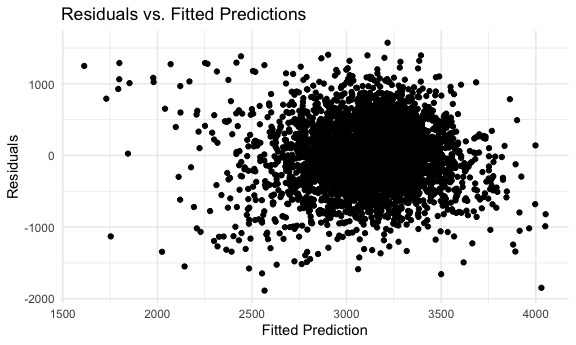
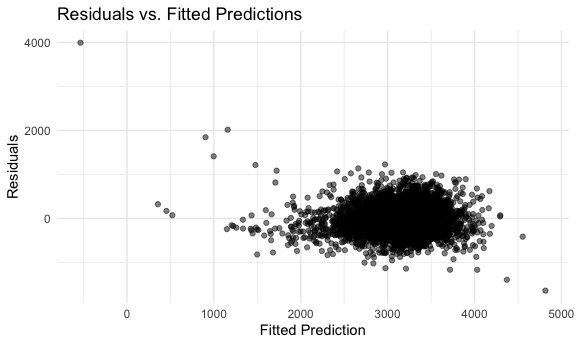
Problem 2 - RMSE, Comparing model fits

diff --git a/p8105_hw6_als2377.md b/p8105_hw6_als2377.md
@@ -134,7 +134,7 @@ summarize(baby_df, count = sum(is.na(baby_df)))
 Propose a regression model for birthweight.
 
 ``` r
-model_fit = lm(bwt ~ gaweeks + delwt + fincome + smoken, data = baby_df) 
+model_fit = lm(bwt ~ gaweeks +  blength + delwt + smoken, data = baby_df) 
 
 model_fit %>% 
   broom::tidy() %>% 
@@ -143,18 +143,18 @@ model_fit %>%
   knitr::kable(digits = 3)
 ```
 
-| term      |  estimate | p.value |
-| :-------- | --------: | ------: |
-| intercept | \-161.294 |   0.076 |
-| gaweeks   |    60.680 |   0.000 |
-| delwt     |     5.599 |   0.000 |
-| fincome   |     2.263 |   0.000 |
-| smoken    |   \-7.599 |   0.000 |
+| term      |   estimate | p.value |
+| :-------- | ---------: | ------: |
+| intercept | \-4444.687 |       0 |
+| gaweeks   |     26.605 |       0 |
+| blength   |    123.029 |       0 |
+| delwt     |      2.762 |       0 |
+| smoken    |    \-3.073 |       0 |
 
 Based on hypothesized variables that influenced babyweight, I included
 the following variables in a linear regression model: mother’s weight at
-delivery (delwt), gestational age in weeks (gaweeks), family monthly
-income (fincome), and average number cigarettes smoked per day during
+delivery (delwt), gestational age in weeks (gaweeks), baby’s length at
+birth (blength), and average number cigarettes smoked per day during
 pregnancy (smoken). The following plot shows the residuals of the model
 plotted against the fitted values.
 
@@ -162,9 +162,9 @@ plotted against the fitted values.
 baby_df %>% 
   add_residuals(model_fit) %>% 
   add_predictions(model_fit) %>% 
-  select(resid, pred, delwt, gaweeks, fincome, smoken) %>% 
+  select(resid, pred, delwt, gaweeks, smoken, blength) %>% 
   ggplot(aes(x = pred, y = resid)) + 
-  geom_point() + 
+  geom_point(alpha = 0.5) + 
   labs(
     title = "Residuals vs. Fitted Predictions", 
     x = "Fitted Prediction", 
@@ -173,3 +173,69 @@ baby_df %>%
 ```
 
 <img src="p8105_hw6_als2377_files/figure-gfm/unnamed-chunk-7-1.png" width="90%" />
+
+Compare the model to two others in terms of cross-validation prediction
+error.
+
+``` r
+fit1 = model_fit 
+  
+fit2 = lm(bwt ~ gaweeks + blength, data = baby_df) 
+
+fit3 = lm(bwt ~ bhead + blength + babysex + bhead * blength + bhead * babysex + blength * babysex, data = baby_df)
+
+baby_df %>% 
+  gather_predictions(fit1, fit2, fit3) %>% 
+  mutate(model = fct_inorder(model)) %>% 
+  ggplot(aes(x = blength, y = bwt)) + 
+  geom_point(alpha = .5) +
+  geom_line(aes(y = pred), color = "red") + 
+  facet_grid(~model)
+```
+
+<img src="p8105_hw6_als2377_files/figure-gfm/unnamed-chunk-8-1.png" width="90%" />
+
+``` r
+cv_df =
+  crossv_mc(baby_df, 100) %>% 
+  mutate(
+    train = map(train, as_tibble),
+    test = map(test, as_tibble))
+
+cv_df = 
+  cv_df %>% 
+  mutate(
+    fit1 = map(train, ~lm(bwt ~ gaweeks +  blength + delwt + smoken, data = .x)),
+    fit2 = map(train, ~lm(bwt ~ gaweeks + blength, data = .x)),
+    fit3 = map(train, ~gam(bwt ~ bhead + blength + babysex + bhead * blength + bhead * babysex + blength * babysex, data = as_tibble(.x)))) %>% 
+  mutate(
+    rmse_1 = map2_dbl(fit1, test, ~rmse(model = .x, data = .y)),
+    rmse_2 = map2_dbl(fit2, test, ~rmse(model = .x, data = .y)),
+    rmse_3 = map2_dbl(fit3, test, ~rmse(model = .x, data = .y)))
+
+cv_df %>% 
+  select(starts_with("rmse")) %>% 
+  pivot_longer(
+    everything(),
+    names_to = "model", 
+    values_to = "rmse",
+    names_prefix = "rmse_") %>% 
+  mutate(model = fct_inorder(model)) %>% 
+  ggplot(aes(x = model, y = rmse)) + geom_violin() + 
+  labs(
+    title = "Comparing Model Fit by Root Means Square Errors(RMSE)", 
+    x = "Model", 
+    y = "RMSE"
+  )
+```
+
+<img src="p8105_hw6_als2377_files/figure-gfm/unnamed-chunk-9-1.png" width="90%" />
+
+The plotted Root Means Square Errors (RMSE) for each model indicates
+that Model 3, the linear model containing head circumference, length,
+sex, and all interactions between the three variables produces the best
+fit. The significantly lower RMSE values of this model indicates a
+better fit. Models 1 and 2 produce fairly similar RMSE distributions and
+are worse in predictive accuracy as compared to Model 3.
+
+# Problem 3
